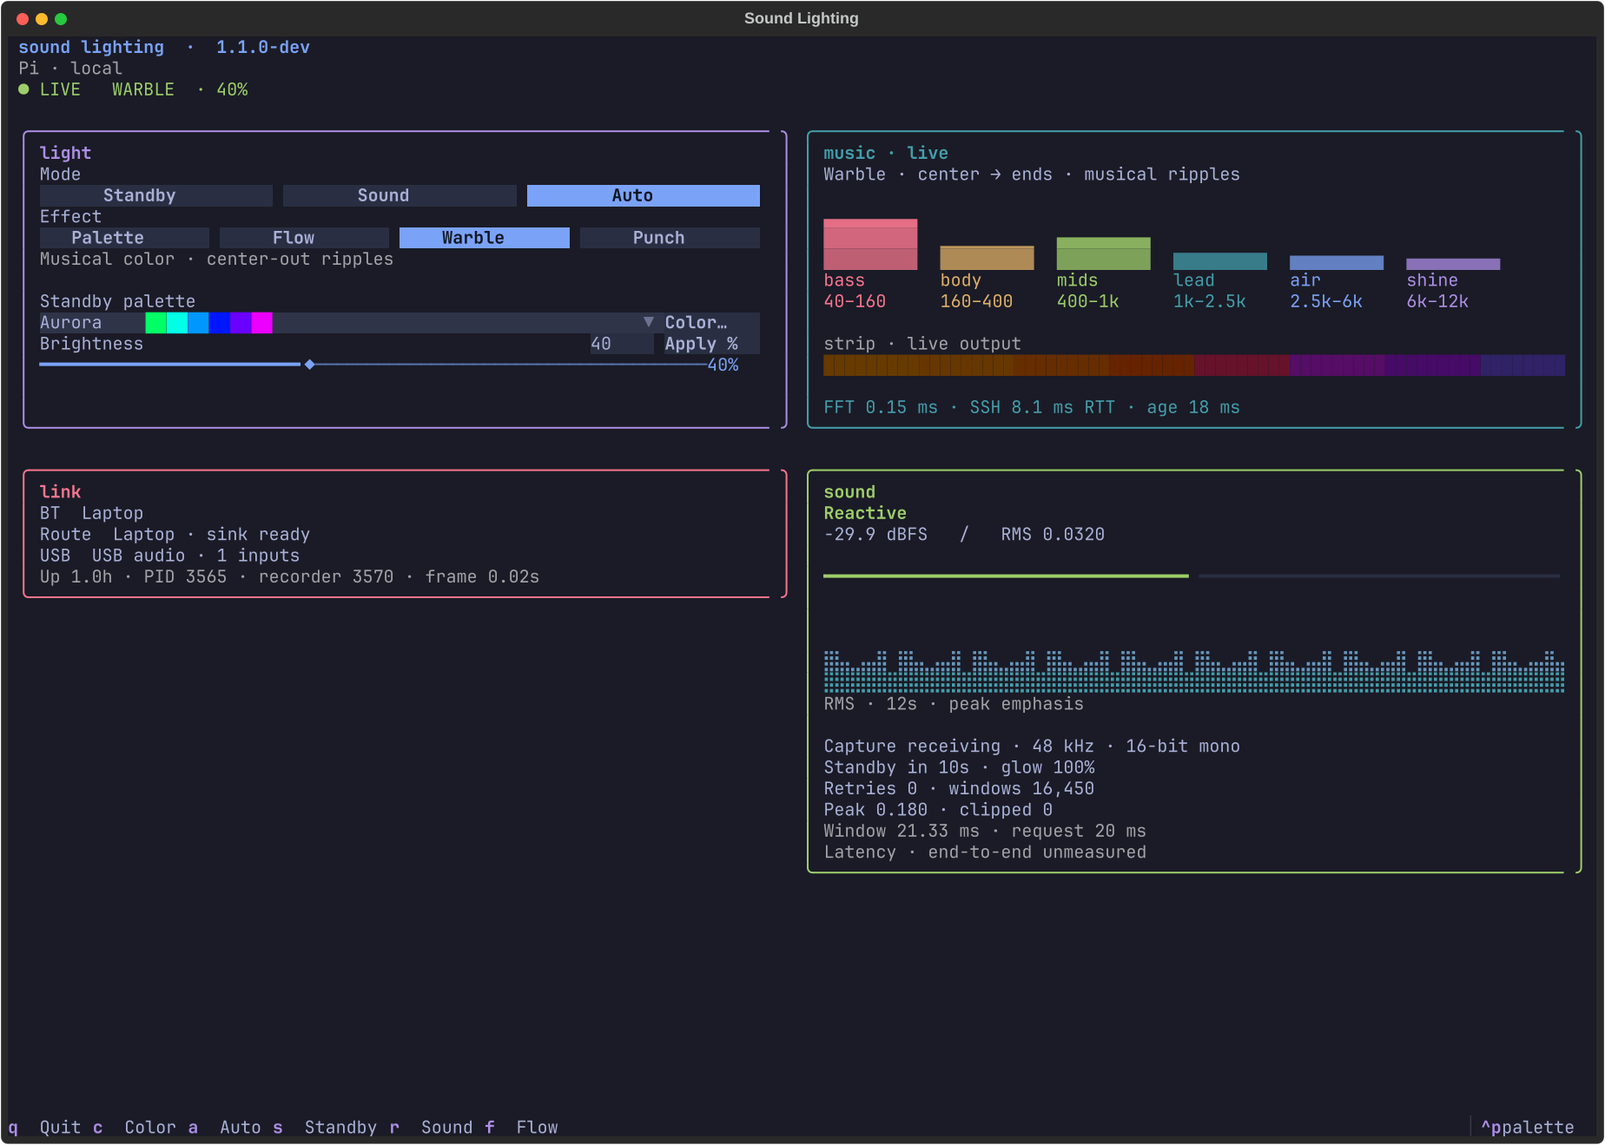
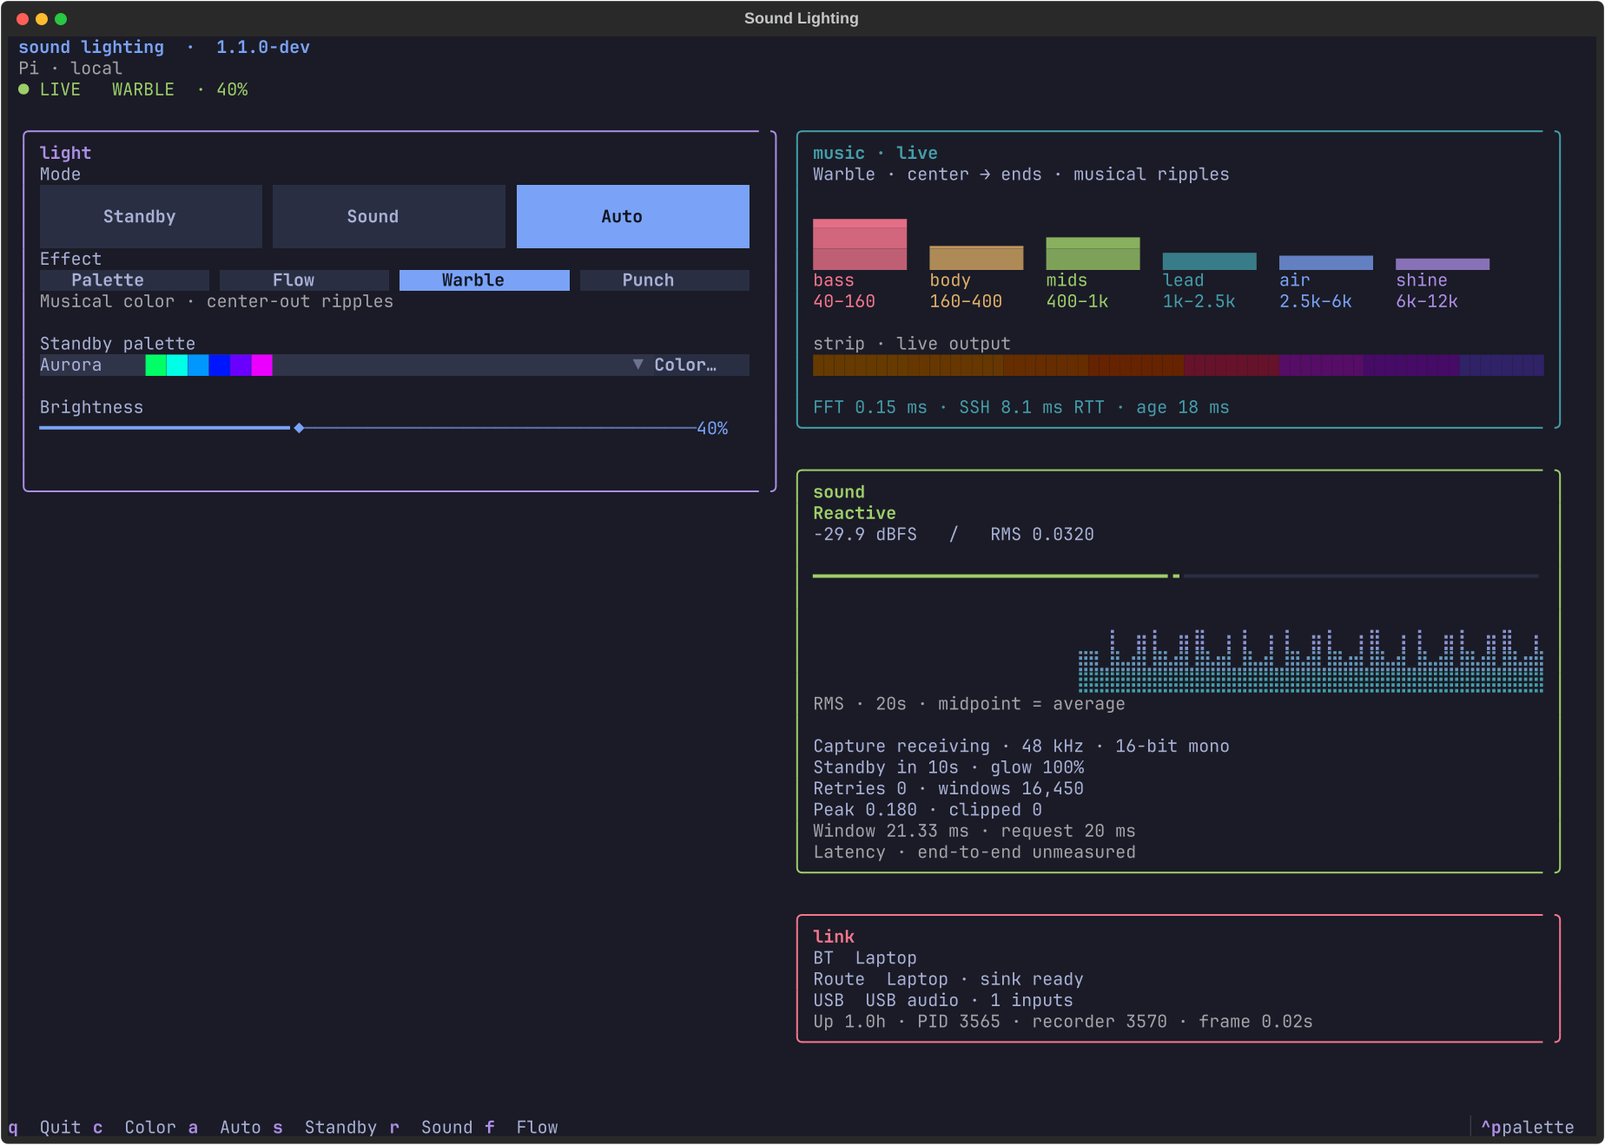
feat(tui): center RMS on a rolling mean and simplify mode controls

diff --git a/tools/dashboard.py b/tools/dashboard.py
@@ -99,7 +99,7 @@ class Dashboard(App):
         self.slider_timer = None
         self.load_omarchy_theme()
         self.history_at = 0
-        self.history = deque([0.0] * 60, maxlen=60)
+        self.history = deque(maxlen=100)
         self.data = {}
         self.graph = {}
         try:
@@ -147,31 +147,28 @@ class Dashboard(App):
                     with Vertical(id='controls', classes='panel'):
                         yield Label('light', classes='eyebrow')
                         yield Label('Mode')
-                        with Horizontal(classes='row'):
-                            yield Button('Standby', compact=True, id='mode-idle')
-                            yield Button('Sound', compact=True, id='mode-sound')
-                            yield Button('Auto', compact=True, id='mode-auto')
-                        yield Label('Effect')
-                        with Horizontal(classes='row'):
-                            yield Button('Palette', compact=True, id='source-palette')
-                            yield Button('Flow', compact=True, id='frequency-flow')
-                            yield Button('Warble', compact=True, id='frequency-warble')
-                            yield Button('Punch', compact=True, id='frequency-punch')
-                        yield Static('', id='effect-hint', classes='muted')
-                        with Vertical(id='punch-control'):
-                            yield Label('Punch · gentle ↔ vivid')
-                            yield Slider(self.initial.punch, id='punch-slider',
-                                         tooltip='Live intensity · fast attack at every setting')
+                        with Horizontal(classes='row', id='mode-buttons'):
+                            yield Button('Standby', compact=False, id='mode-idle')
+                            yield Button('Sound', compact=False, id='mode-sound')
+                            yield Button('Auto', compact=False, id='mode-auto')
+                        with Vertical(id='effect-controls'):
+                            yield Label('Effect')
+                            with Horizontal(classes='row'):
+                                yield Button('Palette', compact=True, id='source-palette')
+                                yield Button('Flow', compact=True, id='frequency-flow')
+                                yield Button('Warble', compact=True, id='frequency-warble')
+                                yield Button('Punch', compact=True, id='frequency-punch')
+                            yield Static('', id='effect-hint', classes='muted')
+                            with Vertical(id='punch-control'):
+                                yield Label('Punch · gentle ↔ vivid')
+                                yield Slider(self.initial.punch, id='punch-slider',
+                                             tooltip='Live intensity · fast attack at every setting')
                         yield Label('Palette', id='palette-label')
                         with Horizontal(classes='row', id='palette-entry'):
                             yield Select([(scene_label(s, self.initial), s) for s in SCENES if s != 'spectrum'],
                                          allow_blank=False, value=self.initial.scene, compact=True, id='scene')
                             yield Button('Color…', compact=True, id='pick-color')
-                        with Horizontal(classes='row', id='brightness-entry'):
-                            yield Label('Brightness')
-                            yield Input(str(round(self.initial.brightness / 255 * 100)), type='integer',
-                                        id='brightness', max_length=3, compact=True, tooltip='Exact % · Enter to apply')
-                            yield Button('Apply %', compact=True, id='set-brightness')
+                        yield Label('Brightness', id='brightness-label')
                         yield Slider(round(self.initial.brightness / 255 * 100), id='brightness-slider',
                                      tooltip='Live drag · Shift-drag fine · arrows ±1 · wheel ±2 · PgUp/PgDn ±10 · Esc cancels drag')
                         with Vertical(id='white-control'):
@@ -179,10 +176,6 @@ class Dashboard(App):
                             yield Slider(self.initial.white, id='white-slider', gradient=('#ff7828', '#bedcff'),
                                          tooltip='Moving this selects steady White. RGB tint, not calibrated Kelvin.')
                         yield Static('', id='saved', markup=False)
-                    with Vertical(classes='panel', id='connection'):
-                        yield Label('link', classes='eyebrow')
-                        yield Static('Checking audio…', id='route', markup=False)
-                        yield Static('', id='runtime', markup=False)
                 with Vertical(id='telemetry-column'):
                     yield SpectrumPane(id='spectrum-pane', classes='panel')
                     with Vertical(id='monitor', classes='panel'):
@@ -191,15 +184,19 @@ class Dashboard(App):
                         yield Static('Waiting for telemetry', id='level')
                         yield ProgressBar(total=60, show_eta=False, show_percentage=False, id='meter')
                         yield SoundHistory(list(self.history), id='wave')
-                        yield Static('RMS · 12s · peak emphasis', classes='muted')
+                        yield Static('RMS · 20s · midpoint = average', classes='muted')
                         yield Static('', id='capture', markup=False)
                         yield Static('', id='timing', markup=False)
+                    with Vertical(classes='panel', id='connection'):
+                        yield Label('link', classes='eyebrow')
+                        yield Static('Checking audio…', id='route', markup=False)
+                        yield Static('', id='runtime', markup=False)
         yield Footer()
 
     def on_mount(self):
         for name, tip in dict(flow='Flow · responsive musical colors, balanced at 45%', warble='Warble · Flow with gentle ripples from the center of each strip', punch='Punch · musical colors with adjustable intensity').items():
             self.query_one('#frequency-' + name).tooltip = tip
-        self.query_one('#wave').tooltip = '12-second history · 5 updates/s · peak-emphasized −46 to −16 dBFS display · numeric RMS unchanged'
+        self.query_one('#wave').tooltip = '20-second rolling RMS average at half-height · twice average at the top · numeric RMS unchanged'
         self.query_one('#spectrum').tooltip = ('Laptop FFT: 2,048 samples at 48 kHz (42.67 ms), up to 20 Hz. '
             'SSH RTT and feature freshness are not sound-to-light latency.')
         self.query_one('#timing').tooltip = ('Analysis window and requested PipeWire buffer only. '
@@ -233,9 +230,6 @@ class Dashboard(App):
         except (OSError, ValueError) as error:
             self.message(str(error))
             return
-        brightness_input = self.query_one('#brightness', Input)
-        old_value = str(round(self.displayed.brightness / 255 * 100)) if self.displayed else None
-        dirty = brightness_input.value != old_value
         previous = self.displayed
         self.displayed = config
         if previous is None or previous.color != config.color:
@@ -246,8 +240,6 @@ class Dashboard(App):
             widget = self.query_one('#' + name, Select)
             with widget.prevent(Select.Changed):
                 widget.value = value
-        if not keep_draft or not dirty:
-            brightness_input.value = str(round(config.brightness / 255 * 100))
         for widget in self.query('#controls Button, #controls Input, #controls Select, #controls Slider, #spectrum-pane Button, #spectrum-pane Slider'):
             widget.disabled = not self.backend.controls_available
         if not self.slider_pending and not self.slider_saving:
@@ -262,6 +254,7 @@ class Dashboard(App):
     def show_choices(self, config):
         for value in ('idle', 'sound', 'auto'):
             self.query_one('#mode-' + value, Button).variant = 'primary' if config.behavior == value else 'default'
+        self.query_one('#effect-controls').display = config.behavior != 'idle'
         self.query_one('#source-palette', Button).variant = 'primary' if config.color_source == 'palette' else 'default'
         for value in ('flow', 'warble', 'punch'):
             self.query_one('#frequency-' + value, Button).variant = 'primary' if config.color_source == 'spectrum' and config.frequency_style == value else 'default'
@@ -270,7 +263,7 @@ class Dashboard(App):
         self.query_one('#palette-label', Label).update('Standby palette' if config.color_source == 'spectrum' else 'Palette')
         self.query_one('#spectrum-pane').display = config.color_source == 'spectrum'
         self.query_one('#punch-control').display = config.color_source == 'spectrum' and config.frequency_style == 'punch'
-        self.query_one('#white-control').display = config.color_source == 'palette' and config.scene == 'workshop'
+        self.query_one('#white-control').display = (config.color_source == 'palette' or config.behavior == 'idle') and config.scene == 'workshop'
 
     def message(self, text):
         self.query_one('#saved', Static).update(text)
@@ -303,7 +296,6 @@ class Dashboard(App):
             return
         if event.slider.id == 'brightness-slider':
             self.slider_pending['brightness'] = round(event.value * 255 / 100)
-            self.query_one('#brightness', Input).value = str(event.value)
         elif event.slider.id == 'white-slider':
             self.slider_pending.update(white=event.value, scene='workshop', color_source='palette')
         elif event.slider.id == 'punch-slider':
@@ -339,23 +331,8 @@ class Dashboard(App):
                 self.slider_timer = self.set_timer(.12, self.save_sliders)
             self.sync_controls()
 
-    @on(Input.Submitted, '#brightness')
-    def brightness_enter(self):
-        self.set_brightness()
-
-    def set_brightness(self, delta=0):
-        try:
-            value = int(self.query_one('#brightness', Input).value)
-            value = max(0, min(100, value + delta)) if delta else value
-            if not 0 <= value <= 100:
-                raise ValueError
-        except ValueError:
-            self.message('Enter 0–100.')
-            return
-        self.save(brightness=round(value * 255 / 100))
-
     def on_button_pressed(self, event):
-        actions = {'set-brightness': self.set_brightness, 'pick-color': self.action_color}
+        actions = {'pick-color': self.action_color}
         name = event.button.id or ''
         if name.startswith('mode-'):
             self.save(behavior=name.removeprefix('mode-'))
@@ -437,7 +414,7 @@ class Dashboard(App):
         if tick > self.history_at:
             # Interpolate a brief scheduling gap, not a false silence spike.
             # Long gaps and unavailable telemetry stay blank.
-            missed = min(59, max(0, tick-self.history_at-1)) if self.history_at else 0
+            missed = min(99, max(0, tick-self.history_at-1)) if self.history_at else 0
             previous = self.history[-1] if self.history else 0.
             self.history.extend(
                 previous + (rms-previous) * (i+1)/(missed+1)

diff --git a/tests/test_dashboard.py b/tests/test_dashboard.py
@@ -76,15 +76,13 @@ class DashboardTests(unittest.IsolatedAsyncioTestCase):
             self.assertEqual(self.backend.settings().scene, 'aurora')
             # A separate CLI writer changed the timeout; the UI must preserve it.
             self.backend.save(quiet_seconds=30)
-            app.query_one('#brightness', Input).value = '70'
-            app.refresh_status()  # External telemetry must not discard a typed draft.
-            await pilot.click('#set-brightness')
-            await pilot.pause()
+            slider = app.query_one('#brightness-slider', Slider)
+            slider.focus()
+            await pilot.press('home', *(['pageup'] * 7))
+            await pilot.pause(.5)
             self.assertEqual(self.backend.settings().brightness, 178)
             self.assertEqual(self.backend.settings().quiet_seconds, 30)
-            app.query_one('#brightness', Input).value = '101'
-            await pilot.click('#set-brightness')
-            self.assertEqual(self.backend.settings().brightness, 178)
+            self.assertFalse(app.query('#brightness, #set-brightness'))
             await pilot.click('#pick-color')
             await pilot.pause()
             self.assertIsInstance(app.screen, ColorPicker)
@@ -131,7 +129,6 @@ class DashboardTests(unittest.IsolatedAsyncioTestCase):
             await pilot.pause()
             self.assertEqual(self.backend.config.read_bytes(), before)
             self.assertEqual(app.query_one('#scene', Select).value, 'aurora')
-            self.assertEqual(app.query_one('#brightness', Input).value, '27')
             self.assertEqual(app.query_one('#brightness-slider', Slider).value, 27)
 
     async def test_sliders_live_drag_keyboard_coalesce_and_white_scene(self):
@@ -235,9 +232,13 @@ class DashboardTests(unittest.IsolatedAsyncioTestCase):
             await pilot.click('#mode-idle')
             await pilot.pause()
             self.assertEqual(self.backend.settings().behavior, 'idle')
+            self.assertFalse(app.query_one('#effect-controls').display)
+            self.assertEqual(app.query_one('#mode-idle').size.height, 3)
+            self.assertGreater(app.query_one('#connection').region.y, app.query_one('#monitor').region.y)
             await pilot.click('#mode-auto')
             await pilot.pause()
             self.assertEqual(self.backend.settings().behavior, 'auto')
+            self.assertTrue(app.query_one('#effect-controls').display)
             await pilot.resize_terminal(54, 38)
             await pilot.click('#source-palette')
             await pilot.pause()
@@ -285,12 +286,22 @@ class DashboardTests(unittest.IsolatedAsyncioTestCase):
         self.assertEqual(chart.shown, [0]*6)
         self.assertEqual(chart.peaks, [0]*6)
 
-    async def test_sound_history_fixed_scale_fine_bars_and_fast_sampling(self):
+    def test_rms_mean_is_midpoint_independent_of_volume(self):
+        from sound_history import relative_level
+        for average in (.003, .02, .1):
+            self.assertEqual(relative_level(average, average), .5)
+            self.assertEqual(relative_level(2*average, average), 1)
+            self.assertEqual(relative_level(.5*average, average), .25)
+            self.assertEqual(relative_level(0, average), 0)
+        self.assertEqual(relative_level(0, 0), 0)
+
+    async def test_sound_history_relative_scale_and_fast_sampling(self):
         from sound_history import SoundHistory
         from unittest.mock import patch
         app = Dashboard(self.backend)
         async with app.run_test(size=(100, 48)) as pilot:
             await pilot.pause()
+            self.assertEqual(app.history.maxlen, 100)
             chart = app.query_one('#wave', SoundHistory)
             chart.data = [.02] * 60
             before = chart.render().plain.splitlines()
@@ -298,7 +309,7 @@ class DashboardTests(unittest.IsolatedAsyncioTestCase):
             self.assertTrue(any(0x2801 <= ord(c) <= 0x28ff for c in ''.join(before)))
             chart.data = [1.] + [.02] * 59
             after = chart.render().plain.splitlines()
-            self.assertEqual([row[-1] for row in before], [row[-1] for row in after])
+            self.assertNotEqual([row[-1] for row in before], [row[-1] for row in after])
             chart.data = [0.] * 60
             self.assertFalse(chart.render().plain.strip())
             app.history.clear()

diff --git a/tools/sound_history.py b/tools/sound_history.py
@@ -1,14 +1,20 @@
-"""A fixed-scale sound trace with fine dotted columns and a vertical theme gradient."""
-import math
+"""A relative sound trace with fine dotted columns and a vertical theme gradient."""
 from rich.text import Text
 from textual.widgets import Sparkline
 from microchart import column, gradient
 
 
+def relative_level(rms, average):
+    """Mean volume is halfway; twice the mean fills the graph; silence is zero."""
+    return max(0, min(1, rms / (2 * max(average, 1e-6))))
+
+
 class SoundHistory(Sparkline):
     def render(self):
         width, height = max(1, self.content_size.width), max(1, self.content_size.height)
-        data = list(self.data or [0.])
+        samples = list(self.data or [])[-100:]
+        average = sum(samples) / len(samples) if samples else 0.
+        data = [0.] * (100-len(samples)) + samples
         _, background = self.background_colors
         low = background + self.get_component_styles('sparkline--min-color').color
         high = background + self.get_component_styles('sparkline--max-color').color
@@ -18,8 +24,7 @@ class SoundHistory(Sparkline):
             end = max(start+1, (x+1) * len(data) // (width * 2))
             bucket = data[start:end]
             rms = max(bucket)  # Preserve brief peaks when several samples share a dot.
-            db = 20 * math.log10(max(1e-9, rms))
-            levels.append(max(0, min(1, (db + 46) / 30)) ** 1.6)
+            levels.append(relative_level(rms, average))
         text = Text(no_wrap=True)
         shades = gradient(low.hex, high.hex, height)
         for row in reversed(range(height)):

diff --git a/docs/dashboard.md b/docs/dashboard.md
@@ -40,7 +40,7 @@ resizes, and moves between workspaces normally; it no longer forces a floating s
 | Mode / S / R / A | Standby keeps the selected palette; Sound stays reactive and dims while quiet; Auto returns to standby after 10 seconds without detected audio. |
 | Effect / F | Palette uses your colorway; Flow (F), Warble, and Punch choose musical colors in one click. Warble adds gentle center-out ripples. Punch exposes its intensity slider beside the effect buttons. |
 | Palette | Every option shows colored swatches. With a musical effect selected, this is the standby/fallback palette. |
-| Brightness | Drag for live updates; Shift-drag is finer. Arrows change 1%, PgUp/PgDn 10%, Home/End reach the limits. Exact entry + Enter or Apply % also works. Zero stays dark, including after reboot. |
+| Brightness | Drag for live updates; Shift-drag is finer. Arrows change 1%, PgUp/PgDn 10%, Home/End reach the limits. Zero stays dark, including after reboot. |
 | Punch · gentle ↔ vivid | Shown beside Effect → Punch. 0 is gentle, 50 is the balanced tuning, 100 is most vivid; fast attack stays constant. |
 | White · warm ↔ cool | Choose Palette → White, then drag or use arrow keys to adjust its tint. 0 is warm, 100 cool; 50 preserves the original Workshop white. |
 | Color / C | A separate dialog with a hex field, live swatch, and eight presets. Apply selects Custom. Cancel or Escape changes nothing. |
@@ -60,7 +60,7 @@ swatch is an approximation of the LEDs. `sudo lights white 25` also selects Whit
 The Pi checks saved settings every 100 ms and fades changes smoothly; network
 and control acknowledgement can add delay. The top strip shows what
 the engine has actually applied. Remote changes refresh the controls while keeping
-an unfinished brightness edit intact. Slider drags update live, with one acknowledged write in flight and only the newest
+an active slider adjustment intact. Slider drags update live, with one acknowledged write in flight and only the newest
 values waiting. Release sends the final value; Escape restores the value from before
 the drag. Shift-drag gives fine control; wheel changes a focused slider by 2%
 (Shift-wheel 1%), while unfocused sliders let the page scroll. Bigger hit areas,
@@ -76,9 +76,9 @@ hover/focus highlighting, and a warm/cool track make controls easier to read. CL
   dims to an 8% glow multiplier in about two seconds. After the ten-second quiet
   timeout, standby fades back in. Sound returns automatically at any point.
   Standby bypasses this dim. Sound remains dim while silent instead of entering standby.
-- **Signal:** RMS level in dBFS, a −60 to 0 dBFS meter, and a 12-second scrolling
-  history sampled five times per second. The graph uses a fixed −46 to −16 dBFS
-  display scale with nonlinear peak emphasis and fine dotted columns. Fast transients between status updates may be missed.
+- **Signal:** RMS level in dBFS, a −60 to 0 dBFS meter, and a 20-second scrolling
+  history sampled five times per second. The graph places the rolling arithmetic mean of RMS at half-height; twice
+  that mean reaches the top. Startup uses the samples collected so far. Fast transients between status updates may be missed.
 - **Capture:** frames arriving, configured 48 kHz, 16-bit mono, retry count, analyzed
   windows, largest observed sample peak, and windows containing near-clipping samples.
   These counters start over with the engine. Windows are sampled for analysis;
@@ -106,17 +106,17 @@ measured. Audio inspection failures appear on the dashboard and retry automatica
 The warm/cool slider appears when **Palette → White** is selected. Musical effects
 keep the standby colorway available without showing unrelated white controls.
 The band display updates at up to 20 Hz over SSH, with bold fractional blocks,
-90 ms release, and falling peak marks; the sound history retains its 12-second view.
+90 ms release, and falling peak marks; the sound history retains its 20-second view.
 
 Charts use btop’s installed CPU gradient for sound history and softer theme hues
 for the musical bands. The RMS trace uses two dot columns per terminal cell for fine detail.
 Brief UI scheduling gaps are visually interpolated; real silence, disconnection,
 and long gaps still clear. Musical meters use 15 ms attack and 90 ms release.
 
-The light panel groups palette/color and brightness/entry controls on shared rows.
-Link details sit underneath. Music meters use bold solid fills; the dotted RMS
-history uses a fixed −46 to −16 dBFS scale with nonlinear peak emphasis. This is
-a visual exaggeration: the RMS number and level meter retain their measured values.
+Mode buttons have a three-row hit area. Standby hides the Effect controls while
+remembering the chosen sound effect. Brightness uses only the live slider.
+Link sits at the bottom, below Sound. The RMS graph is relative to its rolling
+20-second mean; numeric RMS and the dBFS meter remain absolute measurements.
 
 
 ## Install the optional interface

diff --git a/CHANGELOG.md b/CHANGELOG.md
@@ -2,6 +2,11 @@
 
 ## Experimental · feature/spectral-color
 
+**Relative RMS:** The last 20 seconds of average RMS sit at the graph midpoint;
+twice that average reaches the top. Silence remains zero; numeric levels stay
+absolute. Larger Mode buttons, Effect controls hidden in Standby, slider-only
+brightness, and Link moved below Sound simplify the controls.
+
 **Compact controls:** Color picker alongside the palette; exact brightness beside
 its label; shorter sliders and less padding. Link details use the space below the
 light panel. Music meters regain solid fills and stronger gradients. The dotted
